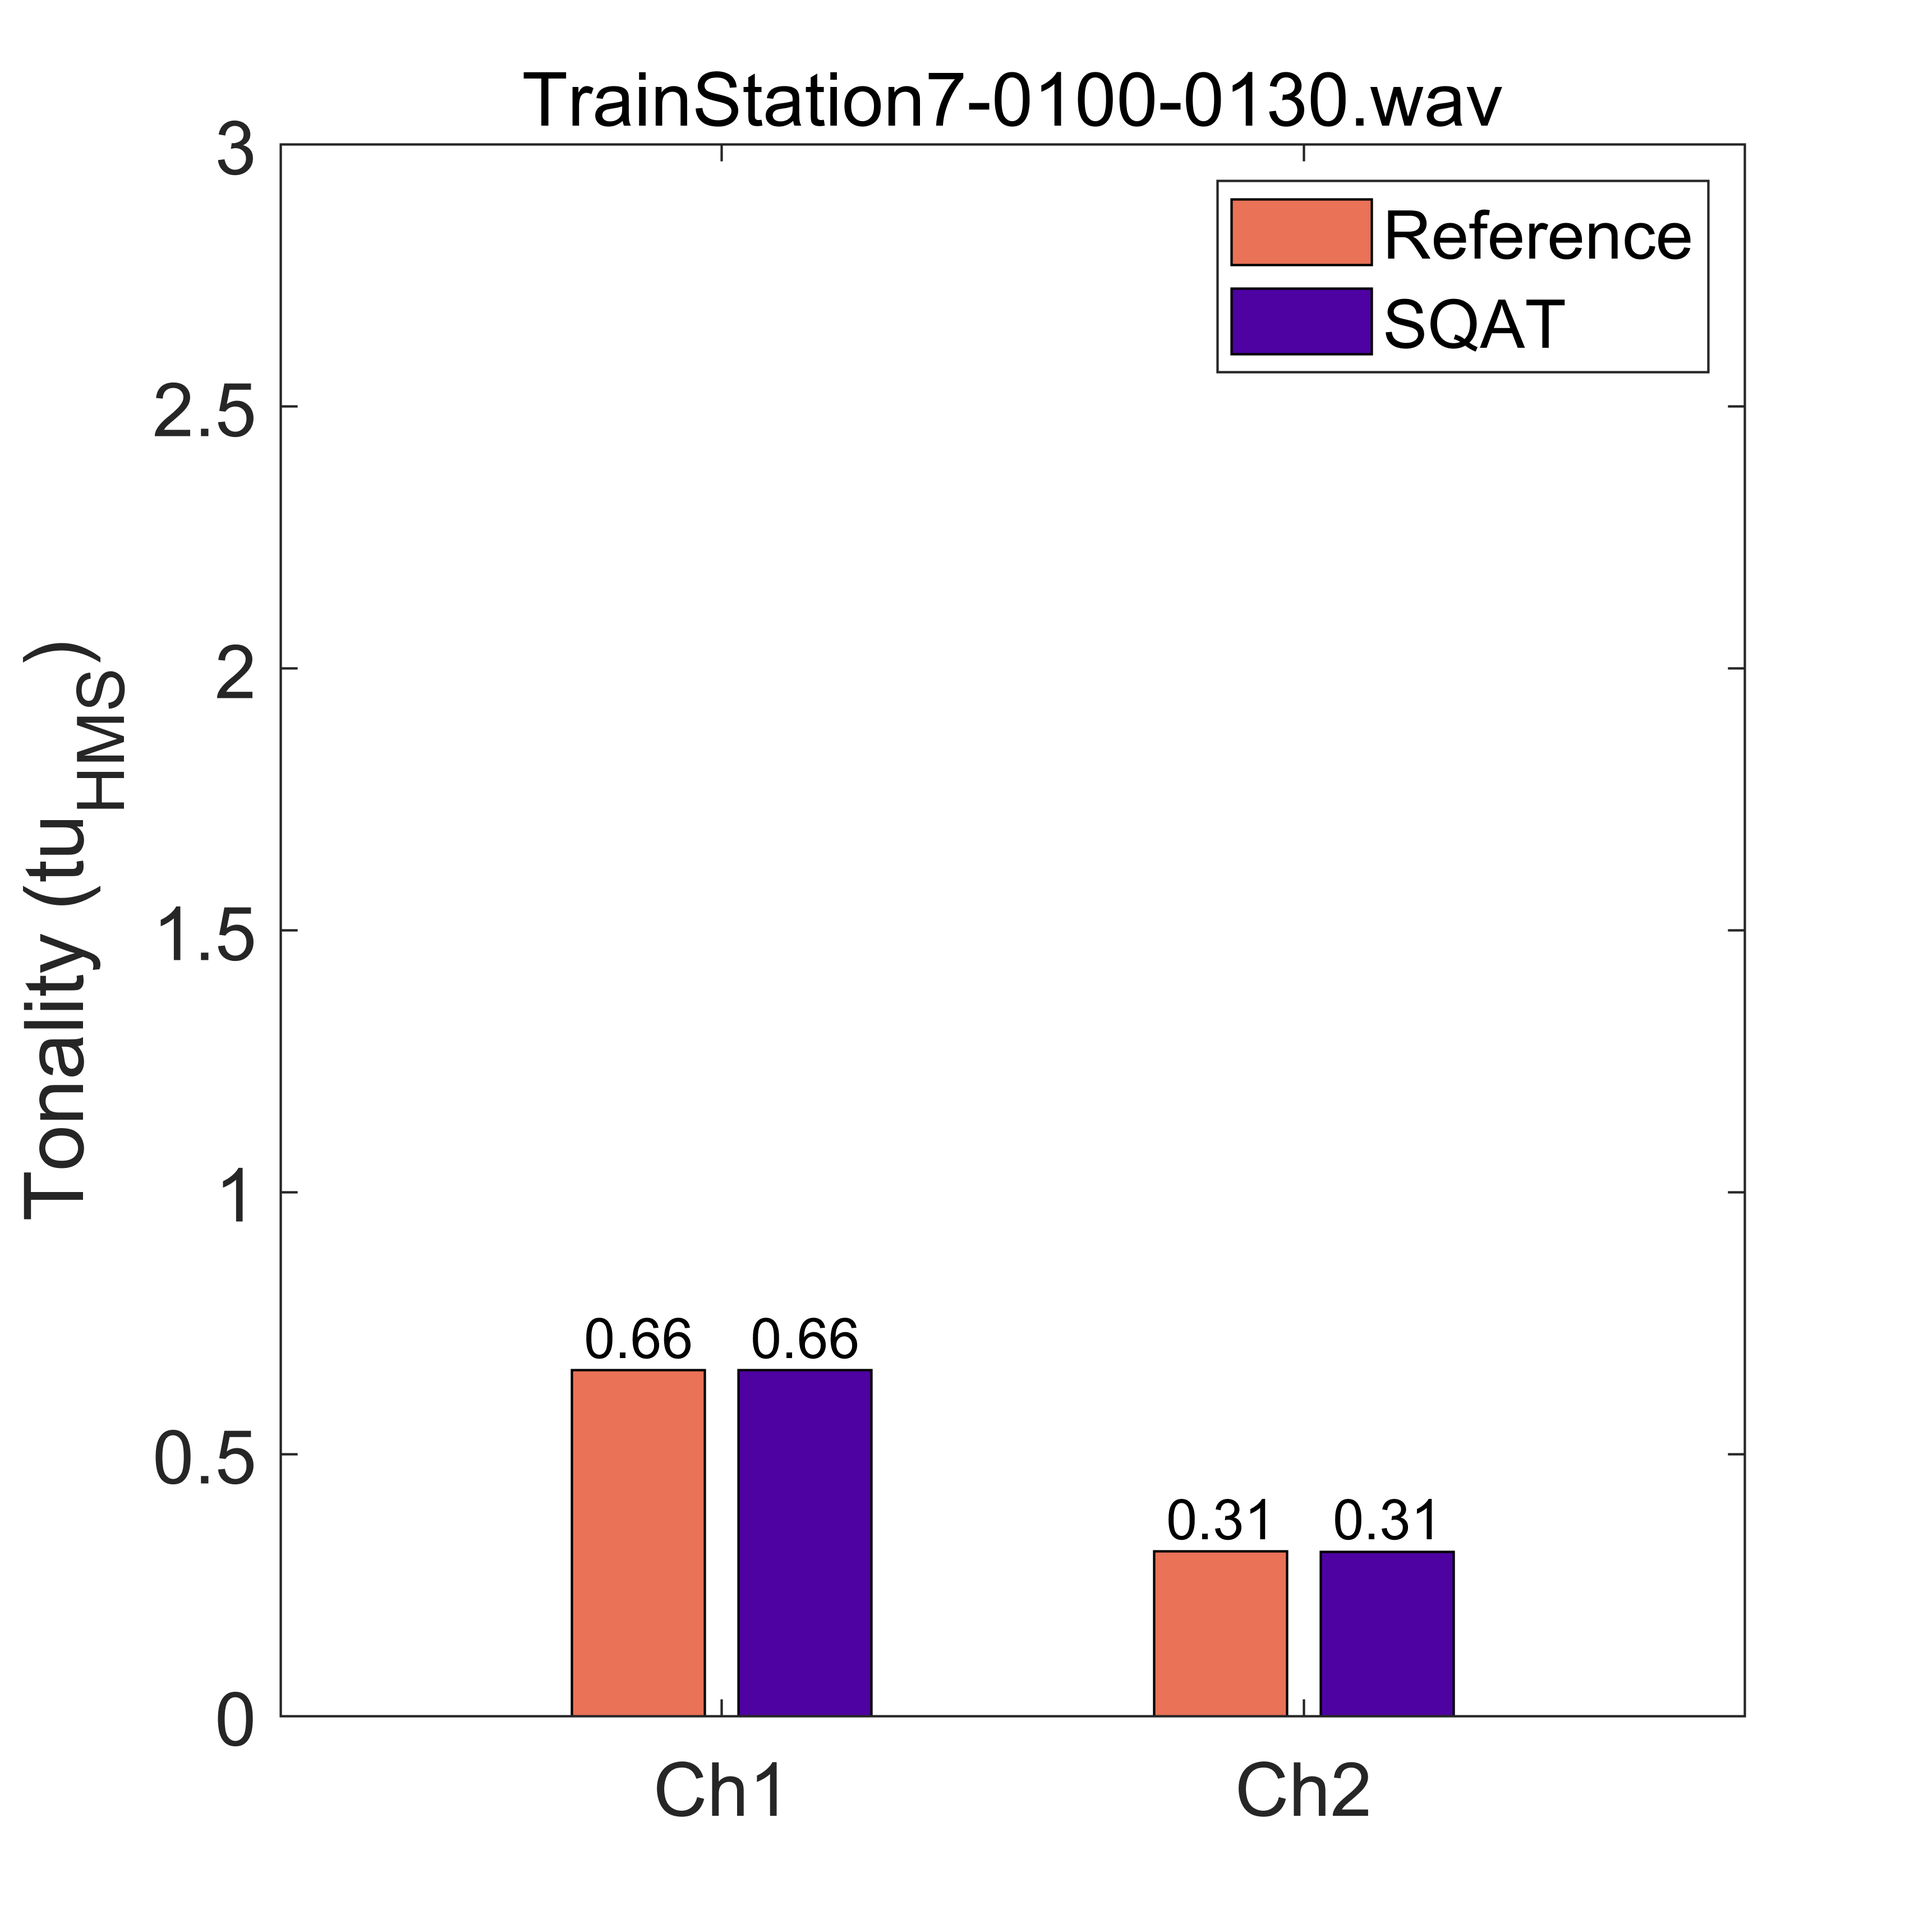
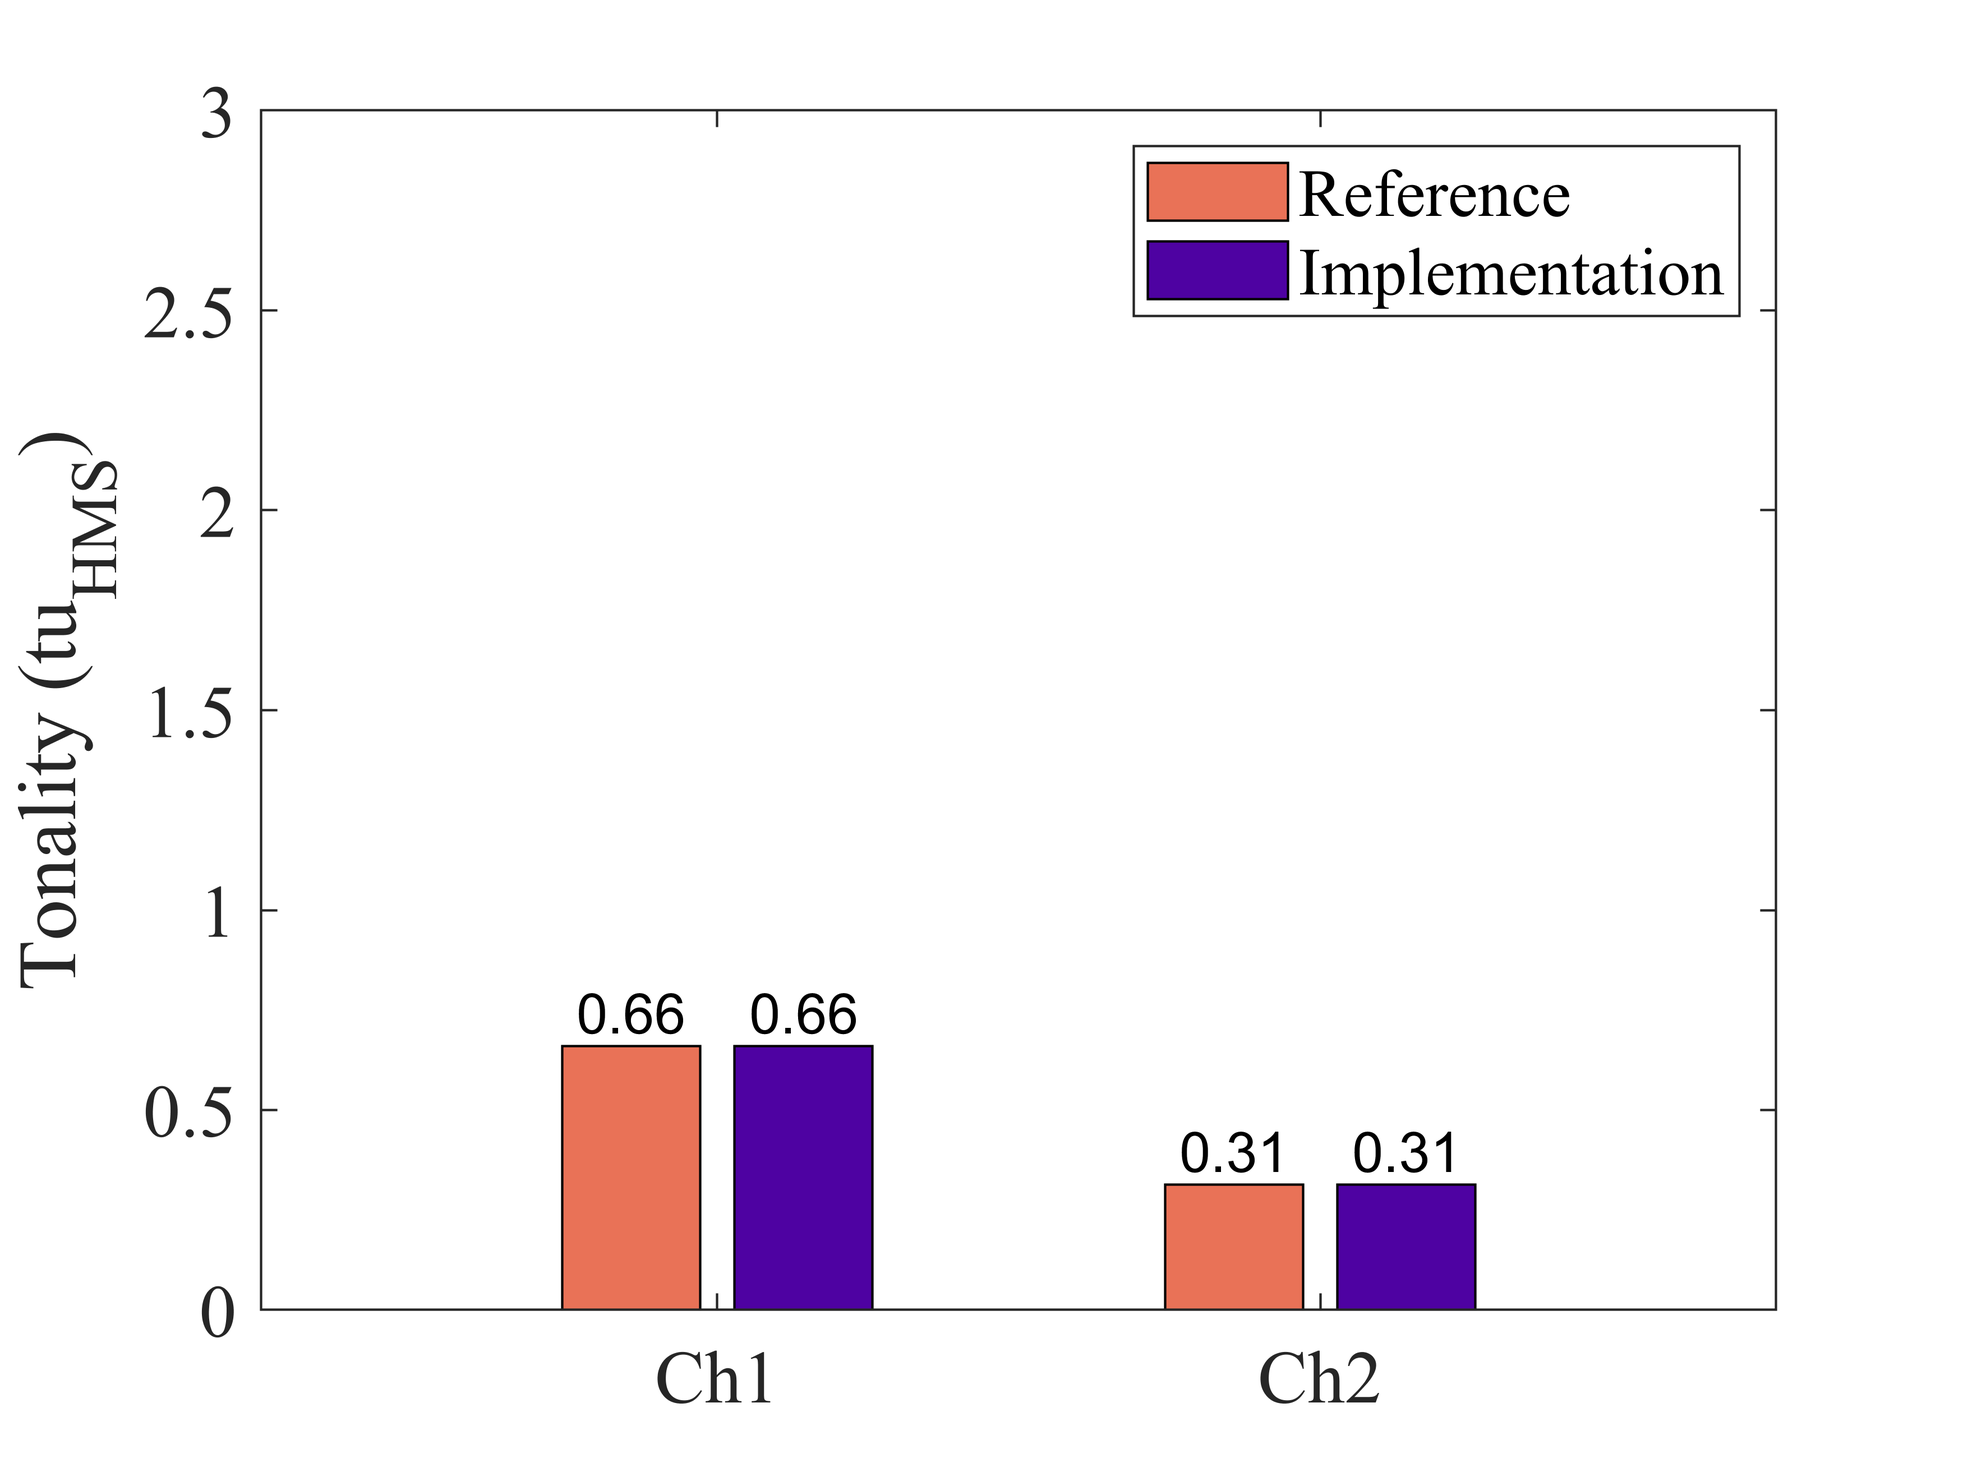
Tonality_ECMA418_2_software_comparison
- include time-dep specific results
- layout changes

diff --git a/validation/Tonality_ECMA418_2/Tonality_ECMA418_2_software_comparison/Tonality_ECMA418_2_software_comparison.m b/validation/Tonality_ECMA418_2/Tonality_ECMA418_2_software_comparison/Tonality_ECMA418_2_software_comparison.m
@@ -14,7 +14,7 @@
 %   OUT = Tonality_ECMA418_2(insig, fs, fieldtype, time_skip, show)
 %   type <help Tonality_ECMA418_2> for more info
 %
-% Author: Gil Felix Greco, Braunschweig 10.02.2025
+% Author: Gil Felix Greco, Braunschweig 12.02.2025
 %%%%%%%%%%%%%%%%%%%%%%%%%%%%%%%%%%%%%%%%%%%%%%%%%%%%%%%%%%%%%%%%%%%%%%%%%%%%%%%%
 clc; clear all; close all;
 
@@ -116,6 +116,40 @@ label_fig = [wav_file '_singleValues_Tonality'];
 
 il_plt_singleValues(single_values, label_title, save_figs,  label_fig)
 
+%% plot - time-dependent specific tonality
+
+% plot -  commercial software (Channel 1)
+xAxis =  ref_results.Spec_TDep_channel_1(2:end,1) ; % time vector
+yAxis =  ref_results.Spec_TDep_channel_1(1, 2:end) ; % freq vector
+zAxis =  ref_results.Spec_TDep_channel_1(2:end, 2:end) ; % specific loudness
+label_fig = [wav_file ' (Channel 1)' '_tDep_Specific_Tonality_ref'];
+
+il_plt_spectrogram(xAxis, yAxis, zAxis', save_figs,  label_fig)
+
+% plot -  commercial software (Channel 2)
+xAxis =  ref_results.Spec_TDep_channel_2(2:end,1) ; % time vector
+yAxis =  ref_results.Spec_TDep_channel_2(1, 2:end) ; % freq vector
+zAxis =  ref_results.Spec_TDep_channel_2(2:end, 2:end) ; % specific loudness
+label_fig = [wav_file ' (Channel 2)' '_tDep_Specific_Tonality_ref'];
+
+il_plt_spectrogram(xAxis, yAxis, zAxis', save_figs,  label_fig)
+
+% plot -  implementation (Channel 1)
+xAxis =  OUT.timeOut; % time vector
+yAxis =  OUT.bandCentreFreqs; % freq vector
+zAxis =  OUT.specTonality(:,:,1) ; % specific loudness
+label_fig = [wav_file ' (Channel 1)' '_tDep_Specific_Tonality_implementation'];
+
+il_plt_spectrogram(xAxis, yAxis, zAxis', save_figs,  label_fig)
+
+% plot -  implementation (Channel 2)
+% xAxis =  OUT.timeOut; % time vector
+% yAxis =  OUT.bandCentreFreqs; % freq vector
+zAxis =  OUT.specTonality(:,:,2) ; % specific loudness
+label_fig = [wav_file ' (Channel 2)' '_tDep_Specific_Tonality_implementation'];
+
+il_plt_spectrogram(xAxis, yAxis, zAxis', save_figs,  label_fig)
+
 %% function / plot - time-varying quantity
 
 function il_plt_tDep(xRef, yRef, xSQAT, ySQAT, label_title, save_figs,  label_fig)
@@ -141,15 +175,15 @@ ylabel('Tonality (tu_{HMS})');
 
 ylim([0 1.5]);
 
-legend('Reference', 'SQAT', 'Location', 'Best');
+legend('Reference', 'Implementation', 'Location', 'Best');
 set(gcf,'color','w');
 
-title(label_title);
+% title(label_title);
 
-ax.FontName = 'Arial';
-ax.FontSize = 14;
-ax.Title.FontWeight = 'normal';
-ax.Title.FontSize = 16;
+ax.FontName = 'Times';
+ax.FontSize = 16;
+% ax.Title.FontWeight = 'normal';
+% ax.Title.FontSize = 16;
 
 if save_figs==1
     figures_dir = [fileparts(mfilename('fullpath')) filesep 'figs' filesep];
@@ -221,21 +255,21 @@ xticks(barkAxis);
 
 ylim([0 0.7]);
 
-title(label_title);
+% title(label_title);
 
-ax.FontName = 'Arial';
-ax.FontSize = 14;
-ax.Title.FontWeight = 'normal';
-ax.Title.FontSize = 16;
+ax.FontName = 'Times';
+ax.FontSize = 16;
+% ax.Title.FontWeight = 'normal';
+% ax.Title.FontSize = 16;
 
 yyaxis right;
 c = plot( barkAxis, ySQAT-yRef, 'k*-');
 
-ylabel( 'SQAT-Reference (sone_{HMS}/Bark_{HMS})' );
+ylabel( 'Implementation-Reference (tu_{HMS}/Bark_{HMS})' );
 
 ylim([-0.002 0.002]);
 
-legend([a b c], {'Reference', 'SQAT', 'SQAT - Reference'});
+legend([a b c], {'Reference', 'Implementation', 'Implementation - Reference'});
 
 set(h,'color','w');
 
@@ -263,7 +297,8 @@ end
 function il_plt_singleValues(single_values, label_title, save_figs,  label_fig)
 
 % Single values
-h  =figure('Position', [200, 200, 550, 550]);
+% h  =figure('Position', [200, 200, 550, 550]);
+h  =figure;
 set(h,'Units','Inches');
 pos = get(h,'Position');
 set(h,'PaperPositionMode','Auto','PaperUnits','Inches','PaperSize',[pos(3), pos(4)])
@@ -285,14 +320,70 @@ end
 
 ylim([0 round(max(single_values(1))+2)]);
 
-legend('Reference', 'SQAT', 'Location', 'NE');
+legend('Reference', 'Implementation', 'Location', 'NE');
 
-t=title(label_title);
+% t=title(label_title);
 
-t.FontWeight = 'normal';
-t.FontSize = 16;
+% t.FontWeight = 'normal';
+% t.FontSize = 16;
+
+ax = gca;
+ax.FontName = 'Times';
+ax.FontSize = 16;
 
 set(gcf,'color','w');
+
+if save_figs==1
+    figures_dir = [fileparts(mfilename('fullpath')) filesep 'figs' filesep];
+    if ~exist(figures_dir,'dir')
+        mkdir(figures_dir);
+    end
+    figname_short = label_fig;
+    figname_out = [figures_dir figname_short];
+
+    resolution = '-r600'; % Default resolution of 600 DPI
+
+    % saveas(gcf,figname_out, 'fig');
+    % print( gcf, figname_out, '-dpdf', resolution );
+    print( gcf, figname_out,  '-dpng', resolution );
+
+    fprintf('\n%s.m: figure %s was saved on disk\n\t(full name: %s)\n',mfilename,figname_short,figname_out);
+end
+
+end
+
+%% function / plot spectrogram
+
+function il_plt_spectrogram(xAxis, yAxis, zAxis, save_figs,  label_fig)
+
+h  =figure;
+set(h,'Units','Inches');
+pos = get(h,'Position');
+set(h,'PaperPositionMode','Auto','PaperUnits','Inches','PaperSize',[pos(3), pos(4)])
+movegui(h, 'center');
+
+
+[xx,yy] = meshgrid(xAxis, yAxis);
+xx(1) = 0;  % truncating first idx of time to zero (just a visual thing because ref results may not start exactly on zero)
+pcolor(xx, yy, zAxis);
+shading interp; colorbar; axis tight;
+cMap  = load('cmap_plasma.txt'); colormap(cMap);
+
+ax = gca;
+ax.YTick = [63, 125, 250, 500, 1e3, 2e3, 4e3, 8e3, 16e3];
+ax.YTickLabel = ["63", "125", "250", "500", "1k", "2k", "4k","8k", "16k"];
+ax.YScale = 'log';
+ax.YLabel.String = 'Frequency (Hz)';
+ax.XLabel.String = 'Time (s)';
+
+ h = colorbar;
+ zString = 'Specific tonality (tu_{HMS}/Bark_{HMS})';
+ set(get(h,'label'),'string', zString);
+
+ box on
+ set(gca,'layer','top');
+
+ set(gcf,'color','w');
 
 if save_figs==1
     figures_dir = [fileparts(mfilename('fullpath')) filesep 'figs' filesep];

diff --git a/validation/Tonality_ECMA418_2/Tonality_ECMA418_2_software_comparison/README.md b/validation/Tonality_ECMA418_2/Tonality_ECMA418_2_software_comparison/README.md
@@ -1,7 +1,8 @@
 # About this code 
 
-The `Tonality_ECMA418_2_software_comparison.m` code compares tonality results (ECMA-418-2 model [1]) obtained in a commercial software and using the implementation in SQAT (see `Tonality_ECMA418_2.m` code [here](../../../psychoacoustic_metrics/Tonality_ECMA418_2/Tonality_ECMA418_2.m)). To perform this study, a binaural file recorded in a 'train station' environment is used. The signal 'TrainStation.7.wav' was extracted from the EigenScape database [(link)](https://zenodo.org/doi/10.5281/zenodo.1012808), and trimmed between 01m00s and 01m30s. The EigenScape database, which is described by 
+The `Tonality_ECMA418_2_software_comparison.m` code compares tonality results (ECMA-418-2 model [1]) obtained using a commercial software (ref. results) and using the implementation in SQAT (see `Tonality_ECMA418_2.m` code [here](../../../psychoacoustic_metrics/Tonality_ECMA418_2/Tonality_ECMA418_2.m)). To perform this study, a binaural file recorded in a 'train station' environment is used. The signal 'TrainStation.7.wav' was extracted from the EigenScape database [(link)](https://zenodo.org/doi/10.5281/zenodo.1012808), and trimmed between 01m00s and 01m30s. The EigenScape database, which is described by 
 Green et al. [2], is licenced under Creative Commons Attribution 4.0.   
+ 
 
 <!-- Artemis Suite 15.7-->
 
@@ -12,13 +13,32 @@ The following sound file is required: `ExStereo_TrainStation7-0100-0130.wav`, wh
 
 ## Time-dependent tonality
 
-<img src='figs/TrainStation7-0100-0130 (Channel 1)_TDep_Tonality.png' width=500> <img src='figs/TrainStation7-0100-0130 (Channel 2)_TDep_Tonality.png' width=500> 
+| Channel 1       | Channel 2          |
+| -------------- | -------------- |
+| <img src='figs/TrainStation7-0100-0130 (Channel 1)_TDep_Tonality.png' width=500>   |  <img src='figs/TrainStation7-0100-0130 (Channel 2)_TDep_Tonality.png' width=500>   |
+
+ 
 
 ## Time-averaged specific tonality
 
-<img src='figs/TrainStation7-0100-0130 (Channel 1)_avgSpecific_Tonality.png' width=1000> 
+Channel 1  |  
+:-------------------------:| 
+| <img src='figs/TrainStation7-0100-0130 (Channel 1)_avgSpecific_Tonality.png' width=1000> | 
 
-<img src='figs/TrainStation7-0100-0130 (Channel 2)_avgSpecific_Tonality.png' width=1000> 
+Channel 2 |  
+:-------------------------:| 
+| <img src='figs/TrainStation7-0100-0130 (Channel 2)_avgSpecific_Tonality.png' width=1000> | 
+
+ 
+## Time-dependent specific tonality
+
+| Reference (channel 1)       | Implementation (channel 1)          |
+| -------------- | -------------- |
+| <img src='figs/TrainStation7-0100-0130 (Channel 1)_tDep_Specific_Tonality_ref.png' width=500>  | <img src='figs/TrainStation7-0100-0130 (Channel 1)_tDep_Specific_Tonality_implementation.png' width=500>   |
+
+|   Reference (channel 2)       | Implementation (channel 2)          |
+| -------------- | -------------- |
+| <img src='figs/TrainStation7-0100-0130 (Channel 2)_tDep_Specific_Tonality_ref.png' width=500>  | <img src='figs/TrainStation7-0100-0130 (Channel 2)_tDep_Specific_Tonality_implementation.png' width=500>  |
 
 
 ## Overall tonality
@@ -32,7 +52,7 @@ The following sound file is required: `ExStereo_TrainStation7-0100-0130.wav`, wh
 
 
 # Log
-Last checked by: Gil Felix Greco (10.02.2025)
+Last checked: Gil Felix Greco (12.02.2025)
 
 
 
